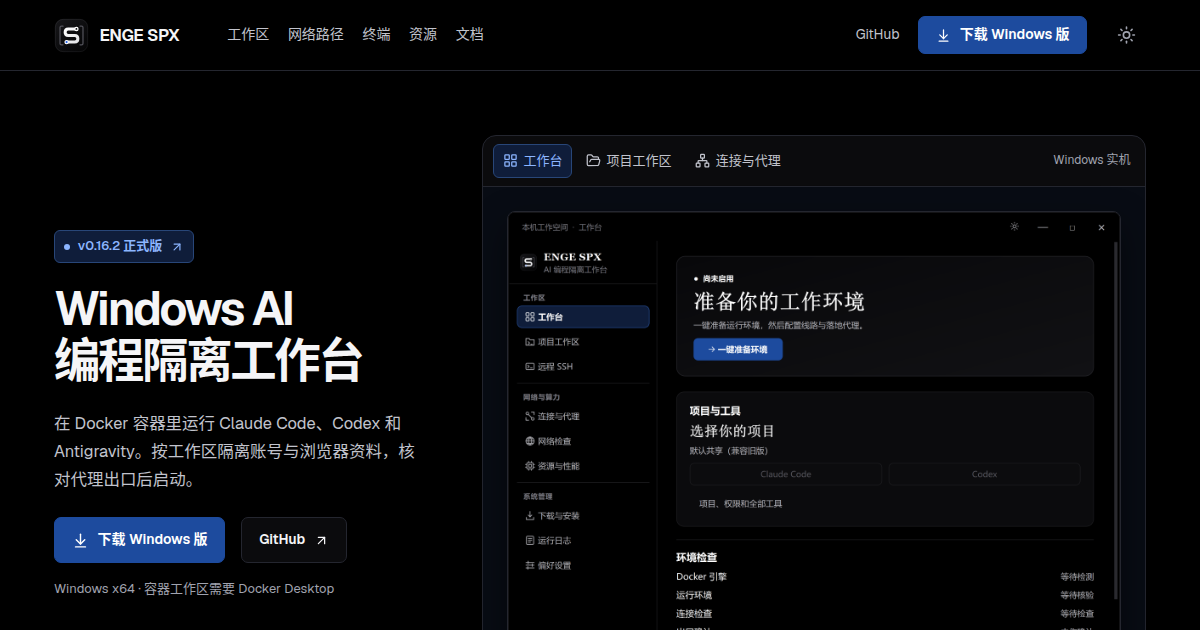
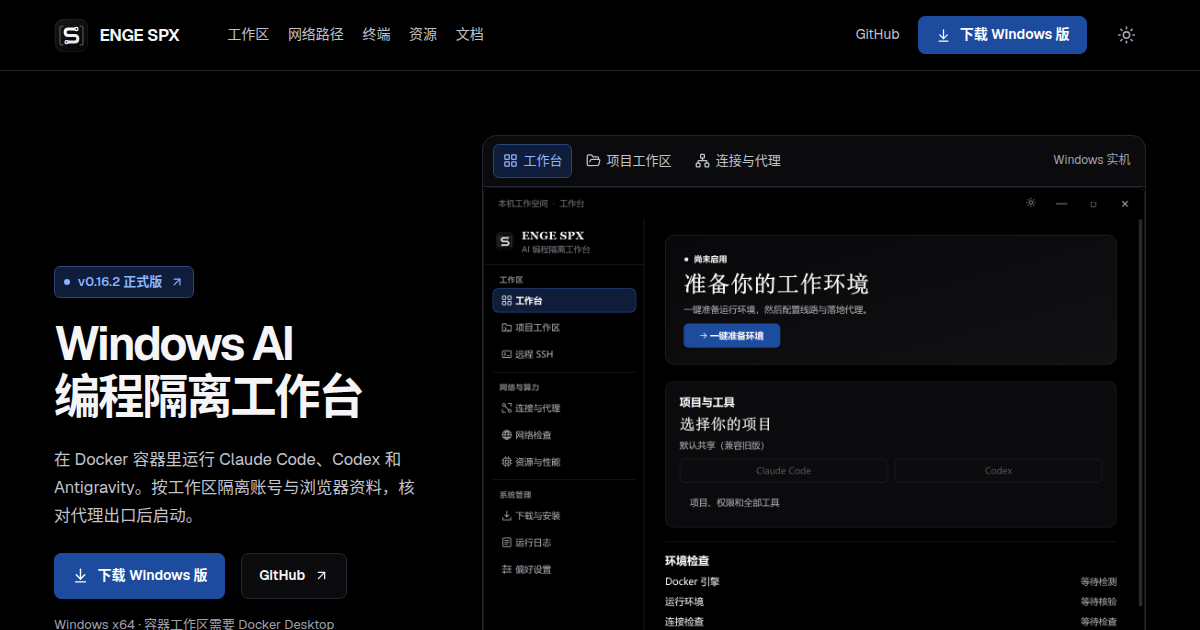
Let the full screenshot fill the website preview [skip ci]

diff --git a/website/src/app/globals.css b/website/src/app/globals.css
@@ -170,13 +170,11 @@ small { font-size: .8125rem; color: var(--muted); }
 .preview-options button:hover { background: var(--soft); }
 .preview-options button[aria-pressed="true"] { background: var(--selected); border-color: var(--selected-border); color: var(--accent); }
 .preview-platform { flex-shrink: 0; margin-right: .25rem; color: var(--muted); font-size: .75rem; }
-.hero-stage {
-    padding: clamp(.65rem, 2vw, 1.75rem);
+.hero-stage .shot-button {
+    border: 0;
     border-radius: 0 0 calc(var(--radius) - 1px) calc(var(--radius) - 1px);
-    background: var(--stage);
+    box-shadow: none;
 }
-.hero-stage .shot-button { aspect-ratio: 4 / 3; box-shadow: 0 14px 36px var(--shadow); }
-.hero-stage .shot-button img { position: absolute; inset: 0 0 auto; }
 .product-shot { min-width: 0; }
 .shot-button {
     position: relative;
@@ -342,7 +340,6 @@ dialog::backdrop { background: #000000b0; }
     .hero { grid-template-columns: minmax(0, 1fr); gap: 1.9rem; }
     .hero h1 span { display: inline; }
     .hero h1 span + span::before { content: " "; }
-    .hero-stage .shot-button { aspect-ratio: 16 / 10; }
 }
 @media (max-width: 900px) {
     .desktop-nav { display: none; }
@@ -361,8 +358,6 @@ dialog::backdrop { background: #000000b0; }
     .hero h1 span { display: block; }
     .hero h1 span + span::before { content: none; }
     .hero-description { margin-block: 1rem 1.2rem; }
-    .hero-stage .shot-button { aspect-ratio: 8 / 7; }
-    .hero-stage .shot-button { border-radius: 5px; }
     .preview-platform { display: none; }
     .preview-options button { padding-inline: .4rem; }
     .features-grid, .showcase, .network-preview, .download-panel, .faq-section { grid-template-columns: minmax(0, 1fr); }
